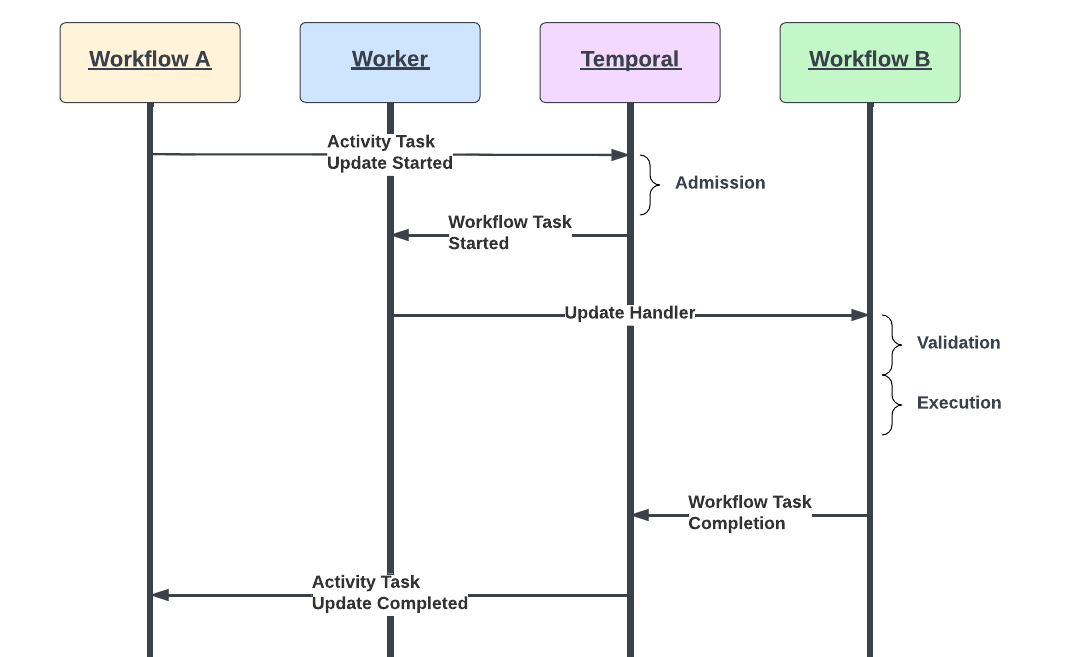
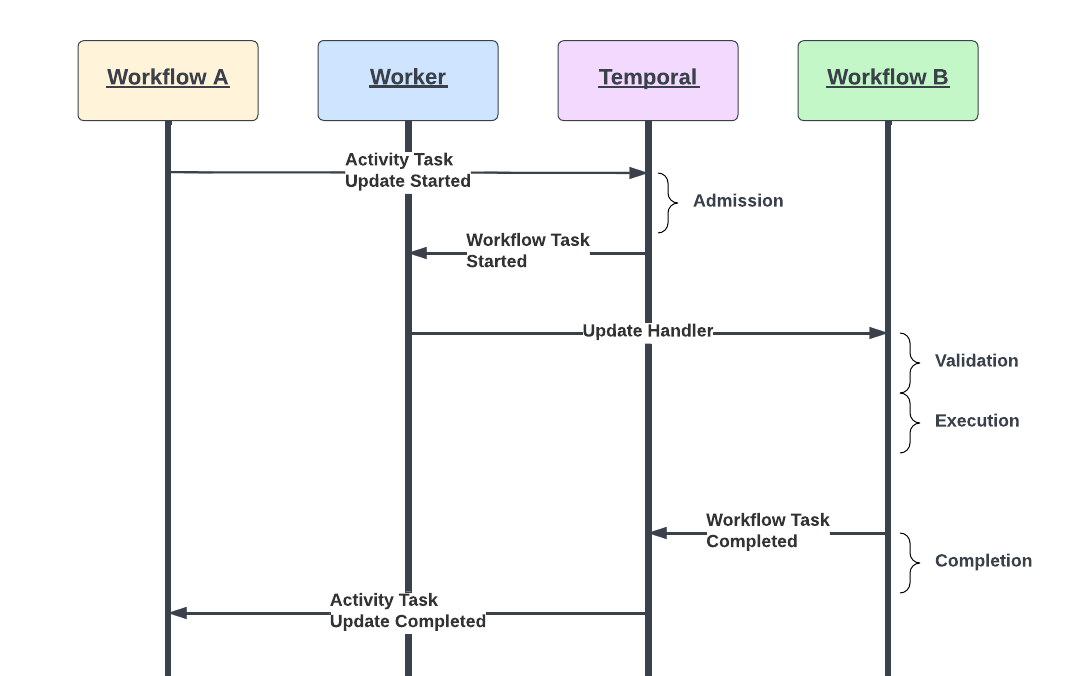
minor corrections to workflow update blog

Changed region(s): [[0.0306, 0.0304, 0.9499, 1.0], [0.8579, 0.8219, 0.9499, 0.8524]]

diff --git a/_posts/2023-11-20-Mutating_Temporal_Workflows_with_Update.md b/_posts/2023-11-20-Mutating_Temporal_Workflows_with_Update.md
@@ -25,10 +25,13 @@ Update is a real game changer as it unlocks new use cases and possibilities for 
 ## How Update Works?
 Temporal Update has four phases.
 
-**Admission** Update request is admitted as long as no [limits](https://docs.temporal.io/kb/temporal-platform-limits-sheet) are breached. 
-**Validation** Optionally update input arguments can be validated and accepted or rejected.
-**Execution** Update is executed and delivered to the worker update handler, WorkflowExecutionUpdateAcceptedEvent added to event history.
-**Completion** Update handler result returned from worker, WorkflowExecutionUpdateCompletedEvent added to event history.
+**Admission:** Update request is admitted as long as no [limits](https://docs.temporal.io/kb/temporal-platform-limits-sheet) are breached. 
+
+**Validation:** Optionally Update input arguments can be validated and accepted or rejected.
+
+**Execution:** Update is executed and delivered to the worker Update handler, WorkflowExecutionUpdateAcceptedEvent added to event history.
+
+**Completion:** Update handler result returned from worker, WorkflowExecutionUpdateCompletedEvent added to event history.
 
 Update is currently a synchronous call, however it is planned to have an asynchronous version of the API in the future. In addition, the only way to call Update between workflows is to use an activity. It is planned to provide an API to call updates between workflows, similar to how Signal works today.
 
@@ -45,13 +48,13 @@ $ temporal server start-dev --dynamic-config-value frontend.enableUpdateWorkflow
 If you are using Temporal cloud, contact the sales team.
 
 ## Replacing Signal/Query with Update
-As mentioned, Update really simplifies interactions between workflows or applications and workflows. Prior to update, we would have to Signal a workflow to mutate it's state and then Query that workflow using polling or possibly Signal back after the mutation has completed. Polling with a Query isn't efficient and Signaling does not provide a response or any kind of validation. Now with update all of these problems are solved, so lets take look.
+As mentioned, Update really simplifies interactions between workflows or applications and workflows. Prior to Update, we would have to Signal a workflow to mutate it's state and then Query that workflow using polling or possibly Signal back after the mutation has completed. Polling with a Query isn't efficient and Signaling does not provide a response or any kind of validation. Now with Update all of these problems are solved, so lets take look.
 
-The below illustration shows workflow interactions for a trivia game application built on Temporal. Players are added to the game workflow, through the player workflow. In order to add a player the following steps are required:
-- Moderate to ensure player name is not flagged through profanity filters
-- Query to check player is unique and not already added to game
-- Signal to add the player to the game
-- Query to check to ensure player is added
+The below illustration shows workflow interactions for a trivia game application built on Temporal. Players are added to the game workflow through the player workflow. In order to add a player the following steps are required:
+- Moderate to ensure player name is not flagged through profanity filters.
+- Query to check player is unique and not already added to game.
+- Signal to add the player to the game.
+- Query to check to ensure player is added.
 
 ![Trivia w/Signal and Query](/assets/2023-11-20/trivia-game-signal_query.png)
 
@@ -61,7 +64,7 @@ Now let's look at this same diagram using the new Update primitive.
 
 ![Trivia w/Update](/assets/2023-11-20/trivia-game-update.png)
 
-Using Update, we are able to validate a player being unique as part of the same call instead of separately. In addition we reduced Temporal primitive calls from three to just one. FInally, we were able to remove inefficient polling.
+Using Update, we are able to validate a player being unique as part of the same call instead of separately. In addition we reduced Temporal primitive calls from three to just one. Finally, we were able to remove inefficient polling.
 
 ### Query/Signal/Query Code (old)
 The old code before Update.
@@ -190,7 +193,7 @@ func AddPlayerWorkflow(ctx workflow.Context, workflowInput resources.AddPlayerWo
 	return nil
 }
 ```
-The entire pull request for switching to update can be viewed [here](https://github.com/ktenzer/temporal-trivia/commit/9c4ab8bd0d83ee590c94898051689bb13a4be458).
+The entire pull request for switching to Update can be viewed [here](https://github.com/ktenzer/temporal-trivia/commit/9c4ab8bd0d83ee590c94898051689bb13a4be458).
 
 ## Summary
 In this article we discussed the new Temporal primitive Update. We talked about how Update works and also provided a real-world example of switching to Update from Signal/Query. I am excited to see what new Temporal patterns and use cases the Update primitive unlocks. 
